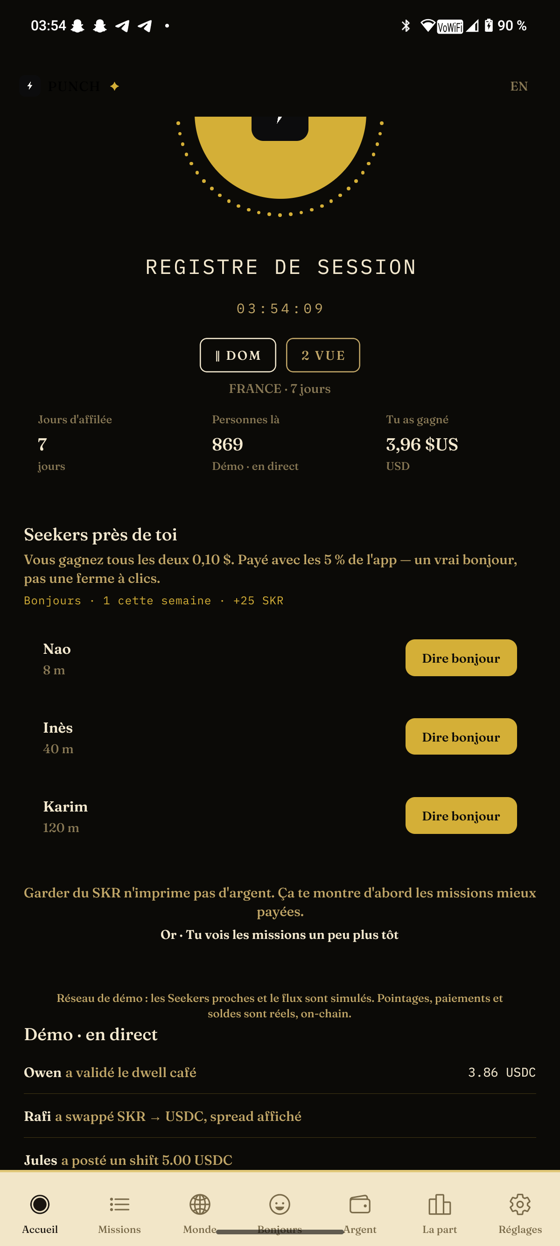
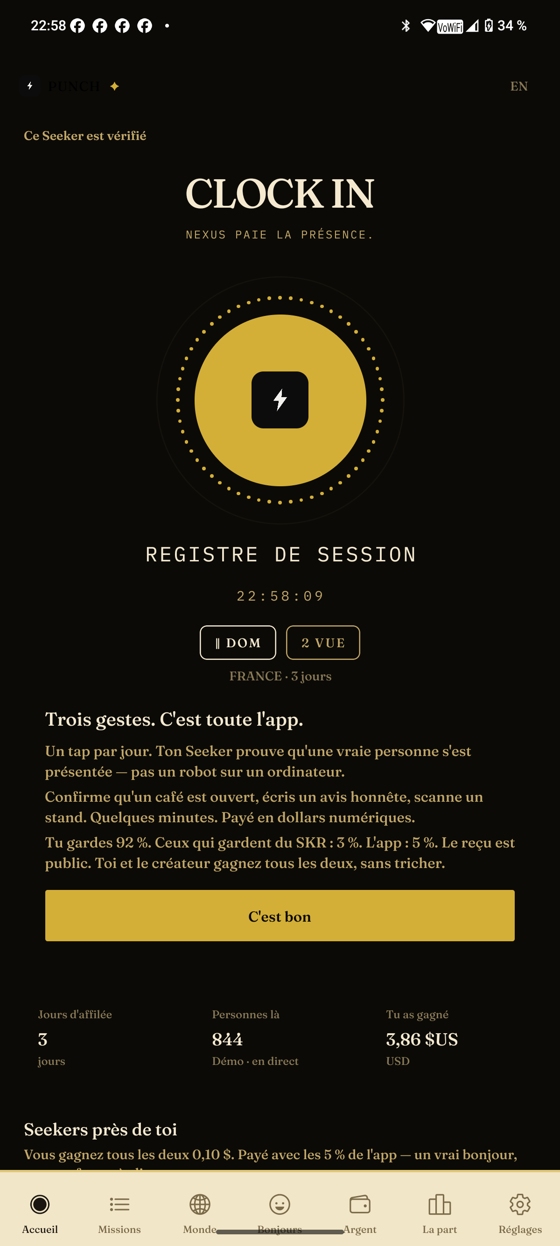
v1.6.9 : l'écran Réglages lit enfin sa propre version (expo-constants, fini le 1.6.8 en dur), vitrine re-capturée connectée, gardes release tolèrent la fenêtre bump→re-tag
🤖 Generated with Codebuff

diff --git a/docs/site/proof.html b/docs/site/proof.html
@@ -3,7 +3,7 @@
 <head>
 <meta charset="utf-8">
 <meta name="viewport" content="width=device-width, initial-scale=1">
-<title>PUNCH — Proof · Preuve (device v1.6.8)</title>
+<title>PUNCH — Proof · Preuve (device v1.6.9)</title>
 <style>
   :root{--bg:#0a0908;--fg:#f4ecd8;--card:#161310;--dim:#8a7a56;--accent:#d4af37;--line:rgba(212,175,55,.28)}
   *{box-sizing:border-box;margin:0;padding:0}
@@ -41,22 +41,22 @@
 
   <div class="card">
     <table>
-      <tr><th>APP VERSION · VERSION DE L'APP</th><td><b>v1.6.8</b> <span class="mono">(source of truth: punch-native/app.json — enforced in CI)</span></td></tr>
+      <tr><th>APP VERSION · VERSION DE L'APP</th><td><b>v1.6.9</b> <span class="mono">(source of truth: punch-native/app.json — enforced in CI)</span></td></tr>
       <tr><th>CAPTURED ON · PRIS SUR</th><td>Solana Seeker <span class="mono">SM02E4060310629</span> — physical device, adb screencap · appareil physique</td></tr>
-      <tr><th>GENERATED · GÉNÉRÉ LE</th><td>2026-09-23 01:54 UTC (UTC)</td></tr>
+      <tr><th>GENERATED · GÉNÉRÉ LE</th><td>2026-10-07 20:58 UTC (UTC)</td></tr>
     </table>
   </div>
 
   <h2>Screenshots · Captures</h2>
   <div class="shots">
-    <figure><img src="device/home.png" alt="home.png" loading="lazy"><figcaption><b>home.png</b> · v1.6.8</figcaption></figure>
-    <figure><img src="device/settings.png" alt="settings.png" loading="lazy"><figcaption><b>settings.png</b> · v1.6.8</figcaption></figure>
+    <figure><img src="device/home.png" alt="home.png" loading="lazy"><figcaption><b>home.png</b> · v1.6.9</figcaption></figure>
+    <figure><img src="device/settings.png" alt="settings.png" loading="lazy"><figcaption><b>settings.png</b> · v1.6.9</figcaption></figure>
   </div>
   <div class="card">
     <table>
       <tr><th>FILE · FICHIER</th><th>SHA-256</th><th>BYTES · OCTETS</th></tr>
-      <tr><td><b>home.png</b><br><span class="mono">device/home.png</span></td><td class="mono">7c076aa46e6dfc9596ccd195b204661ae23239ab658a6f10566684b294bbe5eb</td><td>156389</td></tr>
-      <tr><td><b>settings.png</b><br><span class="mono">device/settings.png</span></td><td class="mono">477db2c8fc42566798f4ee47eaa23f7d559903b4789b7b6918fd4114d904fe36</td><td>119321</td></tr>
+      <tr><td><b>home.png</b><br><span class="mono">device/home.png</span></td><td class="mono">5e5a7e01f2b718a8a60c52718f4cba0e95467c416a5e36b69db509d560403d9e</td><td>174148</td></tr>
+      <tr><td><b>settings.png</b><br><span class="mono">device/settings.png</span></td><td class="mono">c38b5ffde84ac441c2834f614400575369d72aebbc519e4487c328cf091e30da</td><td>144098</td></tr>
     </table>
     <p class="mono" style="margin-top:10px">Verify: <b>certutil -hashfile home.png SHA256</b> (Windows) · <b>shasum -a 256 home.png</b> (macOS/Linux) · then compare with the table above.</p>
   </div>
@@ -68,9 +68,9 @@
       <tr><th>DATE</th><td>2026-09-26</td></tr>
       <tr><th>SHA-256</th><td class="mono">a907b8671c3d885581386197e3645fb00f93bf0ace50965a9b2e086e64fe3f3d</td></tr>
       <tr><th>BYTES · OCTETS</th><td>24433592</td></tr>
-      <tr><th>DOWNLOAD · TÉLÉCHARGER</th><td><a href="https://github.com/Azumizeus/punch-clockin/releases/download/v1.6.8/punch-demo-reseau-v168.mp4">punch-demo-reseau-v168.mp4</a> (GitHub release asset, release v1.6.8)</td></tr>
+      <tr><th>DOWNLOAD · TÉLÉCHARGER</th><td><a href="https://github.com/Azumizeus/punch-clockin/releases/download/v1.6.8/punch-demo-reseau-v168.mp4">punch-demo-reseau-v168.mp4</a> (GitHub release asset, release v1.6.9)</td></tr>
     </table>
-    <p style="margin-top:10px;font-size:15px">What it shows · Ce qu'elle montre : public RPC ping <b>green (249 ms)</b> → fake endpoint <span class="mono">rpc-inexistant-punch.example</span> rejected with the <b>real error</b> (UnknownHostException) → back to the public RPC, <b>green again (254 ms)</b>, Version 1.6.8 visible on the same screen. — <span lang="fr">ping public vert → endpoint bidon rejeté avec la vraie erreur → retour public, re-ping vert, Version 1.6.8 visible au même écran.</span></p>
+    <p style="margin-top:10px;font-size:15px">What it shows · Ce qu'elle montre : public RPC ping <b>green (249 ms)</b> → fake endpoint <span class="mono">rpc-inexistant-punch.example</span> rejected with the <b>real error</b> (UnknownHostException) → back to the public RPC, <b>green again (254 ms)</b>, Version 1.6.9 visible on the same screen. — <span lang="fr">ping public vert → endpoint bidon rejeté avec la vraie erreur → retour public, re-ping vert, Version 1.6.9 visible au même écran.</span></p>
   </div>
 
   <div class="note">

diff --git a/docs/site/guide-jury.html b/docs/site/guide-jury.html
@@ -68,8 +68,8 @@
 
   <h2>What you'll see on the device</h2>
   <div class="shots">
-    <figure><img src="device/home.png" alt="Home screen — Clock in, Demo · live label, nearby Seekers" loading="lazy"><figcaption><b>Home</b> — local-time clock, CLOCK IN bolt, the people-here stat honestly labeled <b>“Démo · en direct”</b>, nearby Seekers.</figcaption><a class="hash" href="device/MANIFEST.json" title="SHA-256 checked in CI against device/MANIFEST.json — what's online is what the phone produced">✓ 7c076aa4</a></figure>
-    <figure><img src="device/settings.png" alt="Settings — Network section, RPC public actif, Version 1.6.8, Quitter le réseau" loading="lazy"><figcaption><b>Settings</b> — one screen holds it all: Network section with the RPC test (<b>“RPC public actif”</b>), <b>Version 1.6.8</b>, and the signed <b>“Quitter le réseau”</b> exit.</figcaption><a class="hash" href="device/MANIFEST.json" title="SHA-256 checked in CI against device/MANIFEST.json — what's online is what the phone produced">✓ 477db2c8</a></figure>
+    <figure><img src="device/home.png" alt="Home screen — Clock in, Demo · live label, nearby Seekers" loading="lazy"><figcaption><b>Home</b> — local-time clock, CLOCK IN bolt, the people-here stat honestly labeled <b>“Démo · en direct”</b>, nearby Seekers.</figcaption><a class="hash" href="device/MANIFEST.json" title="SHA-256 checked in CI against device/MANIFEST.json — what's online is what the phone produced">✓ 5e5a7e01</a></figure>
+    <figure><img src="device/settings.png" alt="Settings — Network section, RPC public actif, Version 1.6.9, Quitter le réseau" loading="lazy"><figcaption><b>Settings</b> — one screen holds it all: Network section with the RPC test (<b>“RPC public actif”</b>), <b>Version 1.6.9</b>, and the signed <b>“Quitter le réseau”</b> exit.</figcaption><a class="hash" href="device/MANIFEST.json" title="SHA-256 checked in CI against device/MANIFEST.json — what's online is what the phone produced">✓ c38b5ffd</a></figure>
   </div>
 
   <a class="btn ghost" href="index.html">← Back · Retour</a>
@@ -104,8 +104,8 @@
 
   <h2>Ce que vous verrez sur l'appareil</h2>
   <div class="shots">
-    <figure><img src="device/home.png" alt="Accueil — Clock in, étiquette Démo · en direct, Seekers proches" loading="lazy"><figcaption><b>Accueil</b> — horloge heure locale, éclair CLOCK IN, la stat personnes là honnêtement étiquetée <b>« Démo · en direct »</b>, Seekers proches.</figcaption><a class="hash" href="device/MANIFEST.json" title="SHA-256 vérifié en CI contre device/MANIFEST.json — ce qui est en ligne est ce que le téléphone a produit">✓ 7c076aa4</a></figure>
-    <figure><img src="device/settings.png" alt="Réglages — section Réseau, RPC public actif, Version 1.6.8, Quitter le réseau" loading="lazy"><figcaption><b>Réglages</b> — un seul écran réunit tout : section Réseau avec test RPC (<b>« RPC public actif »</b>), <b>Version 1.6.8</b> et la sortie signée <b>« Quitter le réseau »</b>.</figcaption><a class="hash" href="device/MANIFEST.json" title="SHA-256 vérifié en CI contre device/MANIFEST.json — ce qui est en ligne est ce que le téléphone a produit">✓ 477db2c8</a></figure>
+    <figure><img src="device/home.png" alt="Accueil — Clock in, étiquette Démo · en direct, Seekers proches" loading="lazy"><figcaption><b>Accueil</b> — horloge heure locale, éclair CLOCK IN, la stat personnes là honnêtement étiquetée <b>« Démo · en direct »</b>, Seekers proches.</figcaption><a class="hash" href="device/MANIFEST.json" title="SHA-256 vérifié en CI contre device/MANIFEST.json — ce qui est en ligne est ce que le téléphone a produit">✓ 5e5a7e01</a></figure>
+    <figure><img src="device/settings.png" alt="Réglages — section Réseau, RPC public actif, Version 1.6.9, Quitter le réseau" loading="lazy"><figcaption><b>Réglages</b> — un seul écran réunit tout : section Réseau avec test RPC (<b>« RPC public actif »</b>), <b>Version 1.6.9</b> et la sortie signée <b>« Quitter le réseau »</b>.</figcaption><a class="hash" href="device/MANIFEST.json" title="SHA-256 vérifié en CI contre device/MANIFEST.json — ce qui est en ligne est ce que le téléphone a produit">✓ c38b5ffd</a></figure>
   </div>
 
   <a class="btn ghost" href="index.html">← Retour</a>

diff --git a/punch-native/app/(tabs)/settings.tsx b/punch-native/app/(tabs)/settings.tsx
@@ -1,6 +1,7 @@
 import { useMemo, useState } from "react";
 import { View, Text, TouchableOpacity, ScrollView, StyleSheet, ActivityIndicator, TextInput, Alert } from "react-native";
 import { useRouter } from "expo-router";
+import Constants from "expo-constants";
 import { usePunch, useT, useColors } from "../../lib/punch/store";
 import { DEFAULT_RPC, getRpcUrl, isCustomRpc, pingRpc, rebuildConnection, setRpcUrl } from "../../lib/solana/rpc";
 import { fonts } from "../../lib/punch/fonts";
@@ -220,7 +221,7 @@ export default function SettingsScreen() {
       <Section title={t.settingsAbout} s={s}>
         <View style={s.infoRow}>
           <Text style={s.infoLabel}>{t.settingsVersion}</Text>
-          <Text style={s.infoVal}>1.6.8</Text>
+          <Text style={s.infoVal}>{Constants.expoConfig?.version ?? Constants.nativeApplicationVersion ?? "—"}</Text>
         </View>
       </Section>
 

diff --git a/tools/check_release_assets.py b/tools/check_release_assets.py
@@ -103,6 +103,25 @@ def main():
              "\"https://uploads.github.com/repos/%s/releases/<id>/assets?name=MANIFEST.json\"" % REPO)
     online = http_get(assets["MANIFEST.json"]["browser_download_url"], token)
     local_bytes = open(local, "rb").read()
+    # Fenetre transitoire alignee sur check_release_tag.py : si la derniere
+    # release publiee est PLUS ANCIENNE que app.json (flux bump -> push ->
+    # re-tag en cours), le MANIFEST du repo decrit la version COURANTE
+    # (captures regenerees -> nouveaux sha256) et ne peut logiquement pas
+    # egaler celui de la release anterieure : avertissement, pas d'echec.
+    # La comparaison stricte redevient applicable des que les versions
+    # s'alignent (re-tag). Le controle APK == .sha256 reste integrite partout.
+    with open(os.path.join(ROOT, "punch-native", "app.json"), encoding="utf-8") as fh:
+        mapp = re.search(r'"version"\s*:\s*"([\d.]+)"', fh.read())
+    app_ver = mapp.group(1) if mapp else ""
+    rel_ver = tag[1:] if tag.startswith("v") else tag
+    ka = [int(x) for x in rel_ver.split(".")]
+    kb = [int(x) for x in app_ver.split(".")] if app_ver else []
+    if kb and ka < kb:
+        print("::warning::release %s plus ancienne que app.json (%s) — fenetre bump -> re-tag : " % (tag, app_ver))
+        print("   comparaison MANIFEST sautee (le MANIFEST du repo decrit la version courante).")
+        print("OK (avec avertissement) : %s intact (match .sha256) ; MANIFEST strict des le re-tag." % apk_name)
+        print("Release %s : assets verifies (fenetre transitoire)." % tag)
+        return 0
     # Comparaison SEMANTIQUE (JSON parse) et non octet-pour-octet : l'asset a
     # pu etre televerse depuis Windows (CRLF) alors que le blob du repo est
     # normalise en LF. Ce qui compte, c'est que la TRACE soit la meme.

diff --git a/docs/CHECKLIST-9OCT.md b/docs/CHECKLIST-9OCT.md
@@ -1,0 +1,51 @@
+# Checklist finale — soumission CLOCK IN
+
+> **Échéance : jeudi 9 octobre 2026, 08:59 (UTC+2)** · Objectif interne : soumettre le 7 au soir / le 8 au matin (marge pour corriger une erreur de formulaire).
+> Référence complète : [docs/SOUMISSION.md](SOUMISSION.md) · Formulaire : <https://solanamobile.radiant.nexus/>
+
+## 1. Relecture de SOUMISSION.md faite le 28/09 — tout est vert
+
+- ✅ **Tous les liens testés HTTP 200** : repo, CI verte (`bc37065`), release v1.6.8 **publiée** (draft = false, 6 assets), proof.html, guide-jury.html, device/MANIFEST.json (identique entre Pages et release).
+- ✅ **Cohérence totale de la chaîne** : tag v1.6.8 = app.json = MANIFEST = proof.html = deck = captures. Les garde-fous CI revérifient tout ça à chaque push : rien à refaire.
+- ✅ **Trésor devnet financé** et visible sur l'explorer.
+- 🔧 Coquille corrigée au passage : tableau §2, la vidéo démo est dans la release **v1.6.8** (pas v1.6.7, qui n'a plus de release en ligne).
+- ℹ `<lien-youtube>` et `<PDF joint ou lien>` dans §5 sont des espaces réservés **volontaires** pour les actions A1/A2 ci-dessous.
+
+## 2. Les 2 seules actions manuelles (≈ 15–20 min)
+
+- [ ] **A1 — Vidéo → YouTube.** Prendre `punch-clockin-demo.mp4` (asset de la [release v1.6.8](https://github.com/Azumizeus/punch-clockin/releases/tag/v1.6.8) — 2 min 43, voix off EN + sous-titres incrustés), l'uploader sur YouTube en visibilité **Publique ou Répertorié**, et **conserver le lien** pour le champ du formulaire.
+- [ ] **A2 — Deck.** [docs/punch-clockin-deck.pdf](punch-clockin-deck.pdf) (12 slides EN, diapo proof chain incluse) : soit **joindre le fichier** directement dans le formulaire, soit utiliser le lien GitHub déjà écrit dans §5 SOUMISSION.md.
+
+## 3. Le formulaire te seul(e) — compte + copier-coller (cf. §5 de SOUMISSION.md)
+
+- [ ] **B1.** Créer le compte / se connecter sur <https://solanamobile.radiant.nexus/>.
+- [ ] **B2.** Coller les blocs prêts de §5 : *Project name* · *One-liner* · *Description (EN)* · *Device gallery (EN)* · *Verifiable proof chain (EN)* · *Argumentaire prix SKR* (si un champ dédié existe).
+- [ ] **B3.** Remplir les liens courts :
+
+  ```
+  GitHub repo (source + judge guide): https://github.com/Azumizeus/punch-clockin
+  Signed APK (arm64): https://github.com/Azumizeus/punch-clockin/releases/latest
+  Demo video: <ton lien YouTube — remplir après A1>
+  Devnet treasury on explorer: https://explorer.solana.com/address/FUiCbnDhEEJtz9Zcj66hGB54iGMGeyjRKD7CsTwpihJn?cluster=devnet
+  Judge guide: https://github.com/Azumizeus/punch-clockin/blob/master/docs/GUIDE-JURY.md
+  Proof (SHA-256 of captures & video): https://azumizeus.github.io/punch-clockin/proof.html
+  Pitch deck: <PDF joint, ou https://github.com/Azumizeus/punch-clockin/blob/master/docs/punch-clockin-deck.pdf>
+  ```
+
+- [ ] **B4.** Relecture avant « Submit » : aucun `<lien-youtube>` restant, chaque lien ouvert au moins une fois, champs EN sans reste de FR, galerie = les 2 PNG si le champ attend des fichiers.
+
+## 4. Rien à refaire côté repo (argué par la CI, pas par nous)
+
+| Élément | État vérifié (28/09) |
+|---|---|
+| CI | verte sur `master` @ `bc37065` (les 7 étapes) |
+| Release | v1.6.8 publiée, 6 assets, APK vérifié par `check_release_assets.py` |
+| Pages | galerie device + MANIFEST + proof.html + guide-jury (badges ✓) en ligne |
+| Trésor | devnet financé, explorer en ligne |
+
+> **v1.6.9 en cours localement** (bump + build + install Seeker, sans tag ni push) : n'a **aucun effet** sur la CI, la release v1.6.8 ou la soumission. Soumettre avec le repo à v1.6.8 est déjà complet ; si tu veux aussi pousser la v1.6.9 dans les temps, le runbook [docs/RUNBOOK-BUMP.md](RUNBOOK-BUMP.md) prend ~1 h (vitrine + 4 badges + commit/push + tag).
+
+## 5. Après le Submit
+
+- [ ] Noter dans §SOUMISSION.md la **date de soumission + le lien de confirmation** (page de statut Radiants).
+- [ ] Youtube : activer si besoin le title/thumbnail la veille du 11 nov (annonce des résultats).

diff --git a/docs/SOUMISSION.md b/docs/SOUMISSION.md
@@ -23,7 +23,7 @@ mise à jour: 23 septembre 2026 (dates officielles Radiants vérifiées : clôtu
 |---|---|---|
 | **APK Android fonctionnel** | ✅ prêt (v1.6.8, arm64, signé, **construit en CI avec le vrai trésor**) | https://github.com/Azumizeus/punch-clockin/releases/tag/v1.6.8 |
 | **Repo GitHub source** | ✅ prêt, **public**, CI verte | https://github.com/Azumizeus/punch-clockin |
-| **Vidéo démo** | ✅ refaite le 22/09 (2 min 43, voix off EN + **sous-titres incrustés**, tournée sur Seeker v1.6.6 : connexion, pointage complet → ticket, reçu 92/3/5, ping RPC, explorer). **Séquence Réseau re-tournée sur Seeker v1.6.8 le 26/09** : ping public vert (249 ms) → endpoint faux → erreur honnête (`UnknownHostException` réel) → retour public → re-ping vert (254 ms) — voir `punch-demo-reseau-v168.mp4` dans la release v1.6.8 | `punch-clockin-demo.mp4` dans la release v1.6.7 (+ `.srt`) — **à uploader sur YouTube (public ou répertorié)** et lier |
+| **Vidéo démo** | ✅ refaite le 22/09 (2 min 43, voix off EN + **sous-titres incrustés**, tournée sur Seeker v1.6.6 : connexion, pointage complet → ticket, reçu 92/3/5, ping RPC, explorer). **Séquence Réseau re-tournée sur Seeker v1.6.8 le 26/09** : ping public vert (249 ms) → endpoint faux → erreur honnête (`UnknownHostException` réel) → retour public → re-ping vert (254 ms) — voir `punch-demo-reseau-v168.mp4` dans la release v1.6.8 | `punch-clockin-demo.mp4` dans la release v1.6.8 (+ `.srt`) — **à uploader sur YouTube (public ou répertorié)** et lier |
 | **Pitch deck** | ✅ prêt | [`docs/punch-clockin-deck.pdf`](https://github.com/Azumizeus/punch-clockin/blob/master/docs/punch-clockin-deck.pdf) (12 slides EN, dont la diapo de preuve Réseau/Version v1.6.8 et la diapo « proof chain » avec diagramme Seeker → MANIFEST → CI → proof → Release) |
 
 ### Preuves visuelles du livrable 1 (captures Seeker v1.6.8)
